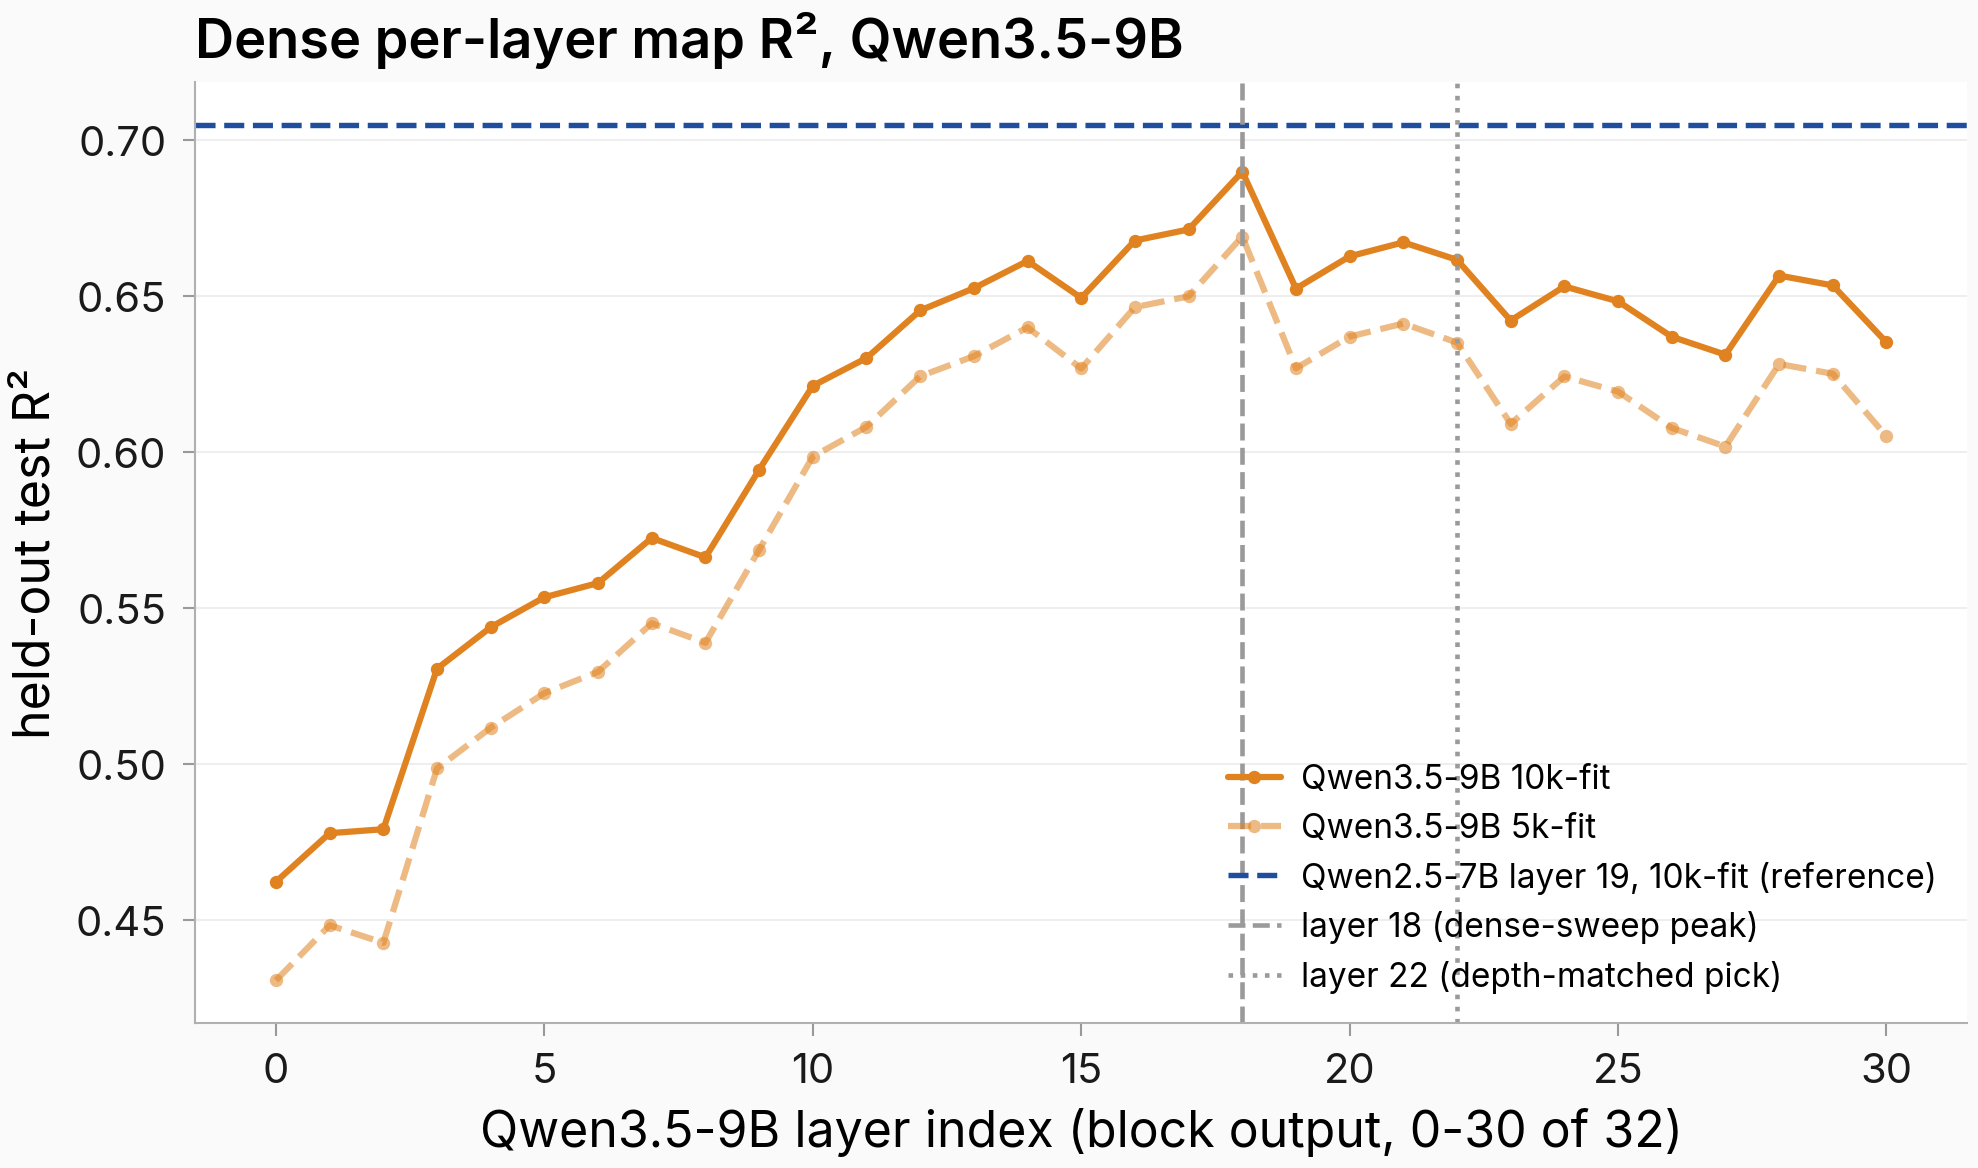
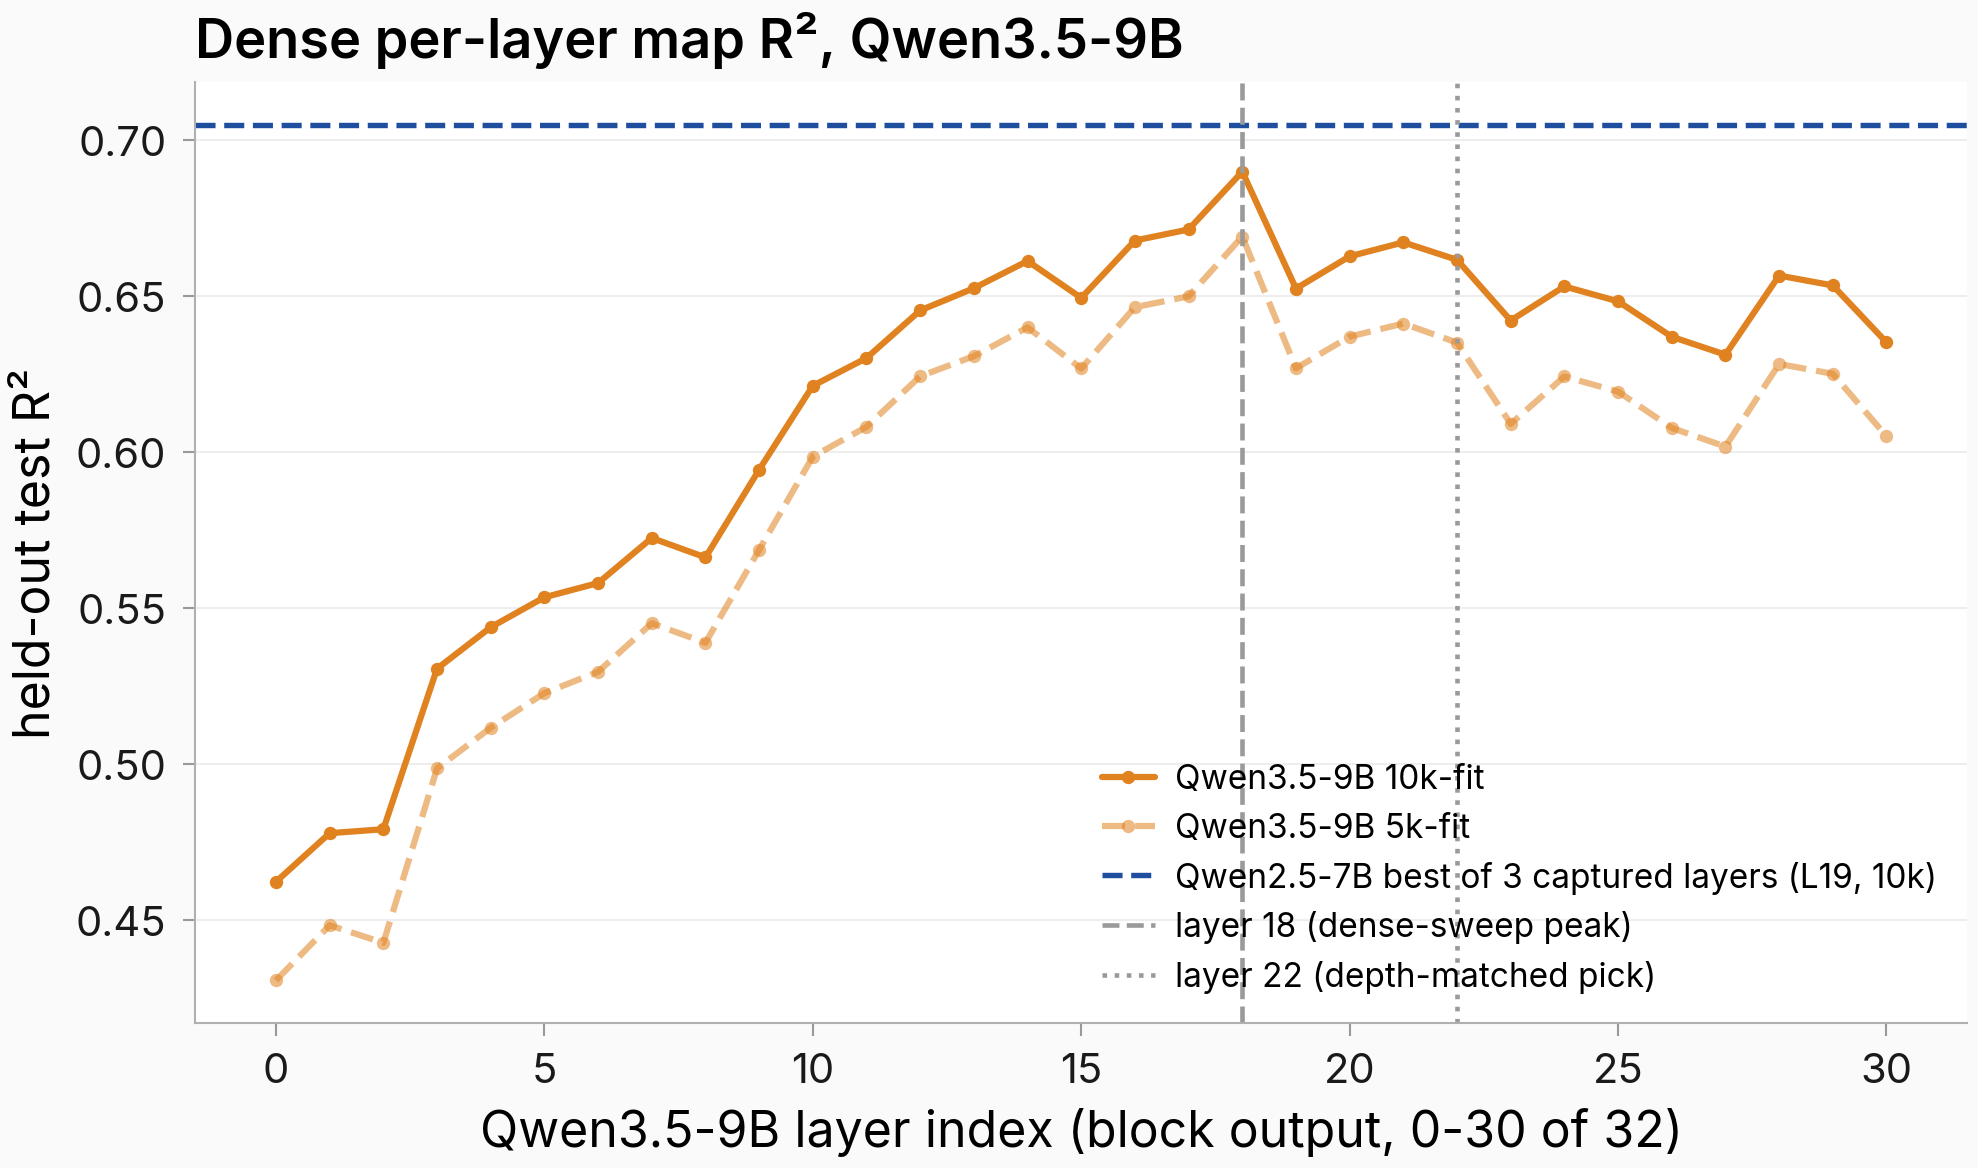
task #2330 crc-r3 fix 4: relabel dense-profile 7B reference to best-of-3-captured-layers

Changed region(s): [[0.5551, 0.6473, 0.9869, 0.863]]

diff --git a/scripts/issue2330_figures.py b/scripts/issue2330_figures.py
@@ -683,7 +683,7 @@ def fig_dense_profile(dense_path: Path, fits_dir: Path, out: Path) -> None:
         ls="--",
         lw=1.3,
         color=COL_MODEL["qwen25_7b"],
-        label="Qwen2.5-7B layer 19, 10k-fit (reference)",
+        label="Qwen2.5-7B best of 3 captured layers (L19, 10k)",
     )
     ax.axvline(18, ls="--", lw=1.1, color=GRAY, label="layer 18 (dense-sweep peak)")
     ax.axvline(22, ls=":", lw=1.1, color=GRAY, label="layer 22 (depth-matched pick)")
